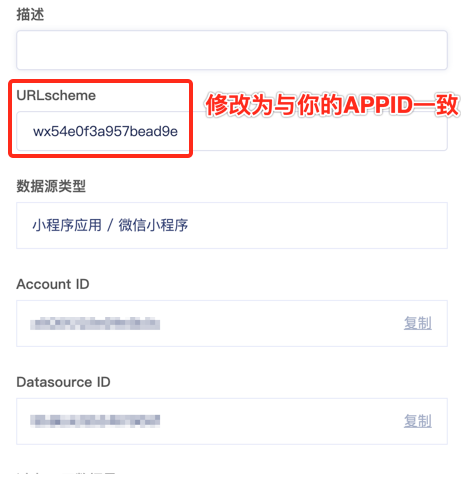
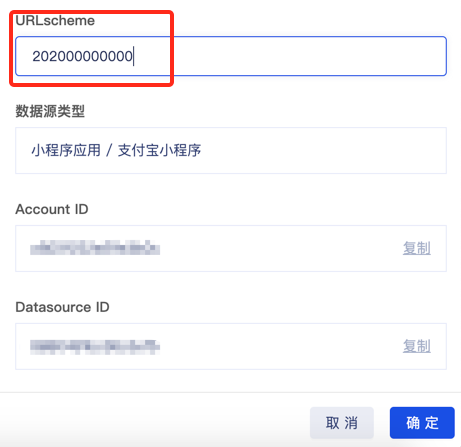
GitBook: [v20200701] 2 pages and 3 assets modified

diff --git a/developer-manual/sdkintegrated/mp/minp-sdk/alip-sdk-popupwindow.md b/developer-manual/sdkintegrated/mp/minp-sdk/alip-sdk-popupwindow.md
@@ -4,14 +4,24 @@
 
 ![](../../../../.gitbook/assets/image%20%28282%29.png)
 
-1. 首先支付宝小程序 无埋点SDK的集成。 数据源中设置url\_scheme与APPID 一致
-2. 登陆支付宝小程序后台，进入配置
+1. 首先微信小程序 无埋点SDK的集成。下载链接   弹窗依赖于无埋点，无埋点版本需要0.5及以上，index.js 是无埋点，如果你之前集成过无埋点老版本，替换则是升级无埋点js，然后引入弹窗组件。
+2. **配置**gtouchHost, 请求弹窗地址，一般与您环境的host一致
 
-   打开小程序详情/设置/开发设置
+   ```text
+   gio('init', 'your projectId','your dataSourceId', 'your appId', {host: 'api.growingio.com',gtouchHost:'popupwindow.test.com'});
+   ```
 
-   配置httpRequest接口请求域名白名单：https://XXX.com \(你设置gtouchHost的地址\)
+3. 数据中设置url\_scheme与APPID 一致，不一致会导致获取不到弹窗
 
-3. 开发者工具要开启**component2**编译
+![](../../../../.gitbook/assets/image%20%28295%29.png)
+
+4.登陆支付宝小程序后台，进入配置
+
+打开小程序详情/设置/开发设置
+
+配置httpRequest接口请求域名白名单：https://XXX.com \(你设置gtouchHost的地址\)
+
+5.开发者工具要开启**component2**编译
 
 ## 二. 平台创建支付宝小程序SDK消息
 

diff --git a/developer-manual/sdkintegrated/mp/minp-sdk/minp-sdk-popupwindow.md b/developer-manual/sdkintegrated/mp/minp-sdk/minp-sdk-popupwindow.md
@@ -11,7 +11,7 @@
    gio('init', 'your projectId','your dataSourceId', 'your appId', {host: 'api.growingio.com',gtouchHost:'popupwindow.test.com'});
    ```
 
-3. 数据中设置url\_scheme与APPID 一致，不一致会导致获取不到弹窗  ![](../../../../.gitbook/assets/image%20%28295%29.png) 
+3. 数据中设置url\_scheme与APPID 一致，不一致会导致获取不到弹窗  ![](../../../../.gitbook/assets/image%20%28296%29.png) 
 4. 登陆微信小程序后台，进入配置
 
    打开开发设置，到服务器域名配置部分
